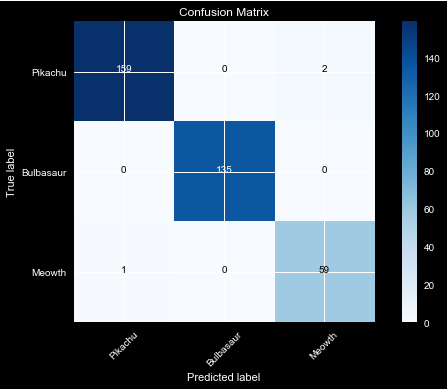
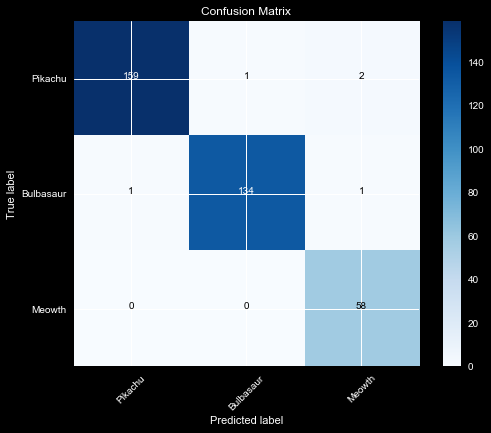
Adding Updates

diff --git a/README.md b/README.md
@@ -21,7 +21,7 @@ Implemented from scratch
 
 ## Testing Accuracy
 
-* Accuracy - 68.54%
+* Accuracy - 69.66%
 
 * Classification Report
 
